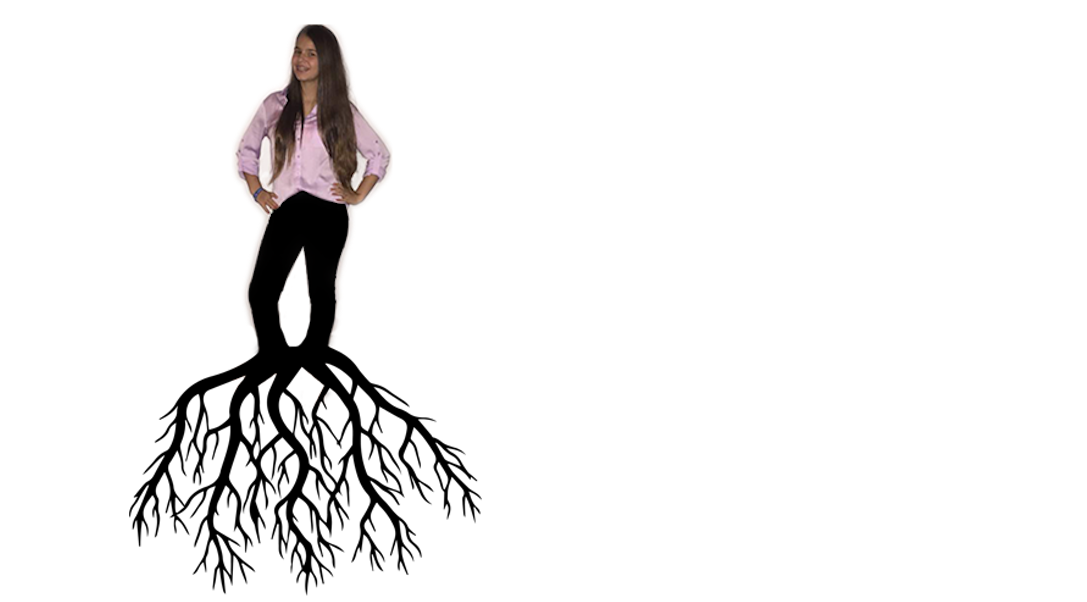
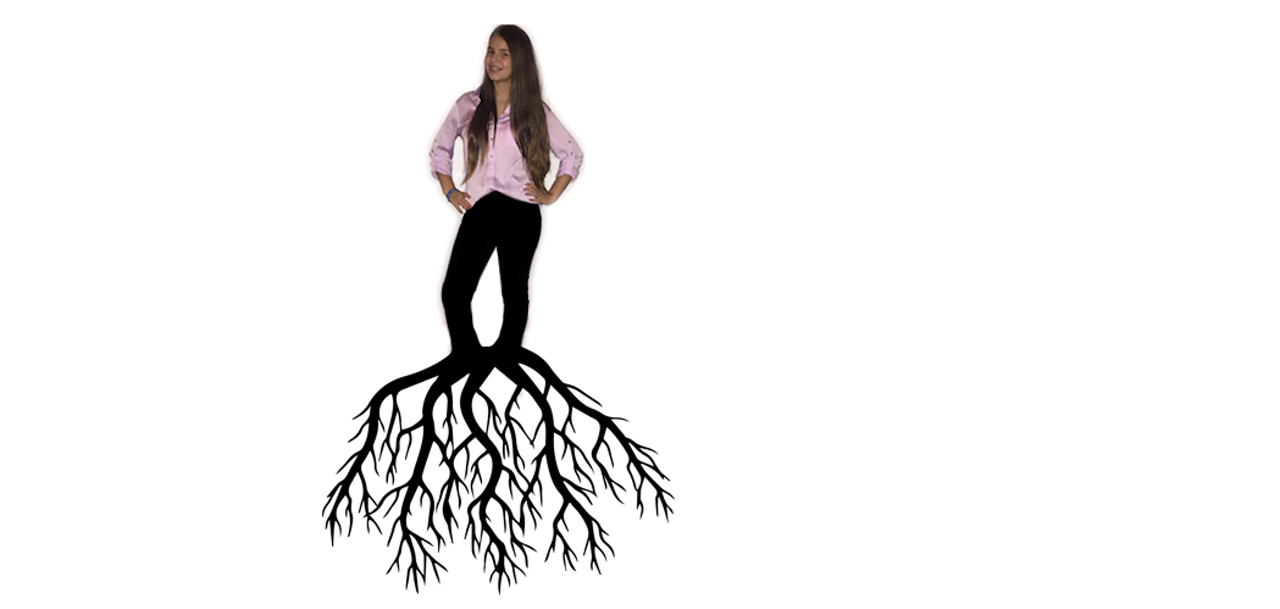
finales

Changed region(s): [[0.1214, 0.0299, 0.5465, 0.9867]]

diff --git a/Inicio/Árbol/arbol.html b/Inicio/Árbol/arbol.html
@@ -5,9 +5,9 @@
 <title>Árbol</title>
 <style type="text/css">
 body {
-	background-image: url(fondoarbol.png);
+	background-image: url(fondoarbol2.png);
 	background-repeat: no-repeat;
-	background-position: right top;
+	background-position: center top;
 }
 	
 	
@@ -24,34 +24,34 @@ body {
     ">
       <tbody>
         <tr>
-          <td width="166" align="center"><a href="https://danalevy.github.io/Escudos/Escudo%20Vivi/Escudo_Vivi.html"><img src="Foto Carnet Vivi.png" width="113" height="143" alt=""/></a></td>
-          <td width="158" align="center"><a href="https://danalevy.github.io/Escudos/Escudo%20mi%20hermano%20Arie/Escudo_mi_hermano_Arie.html"><img src="arie carnet.png" width="111" height="140" alt=""/></a></td>
+          <td width="166" align="center"><a href="https://danalevy.github.io/Escudos/Escudo%20Vivi/Escudo_Vivi.html"><img src="Foto Carnet Vivi.png" width="96" height="121" alt=""/></a></td>
+          <td width="158" align="center"><a href="https://danalevy.github.io/Escudos/Escudo%20mi%20hermano%20Arie/Escudo_mi_hermano_Arie.html"><img src="arie carnet.png" width="105" height="119" alt=""/></a></td>
           <td colspan="3">&nbsp;</td>
-          <td width="164" align="center"><a href="https://danalevy.github.io/Escudos/Escudo%20Analy/escudoanaly.html"><img src="Foto Carnet Analy.png" width="117" height="139" alt=""/></a></td>
-          <td width="169" align="center"><a href="https://danalevy.github.io/Escudos/Escudo%20Eli/escudoeli.html"><img src="eli carnet.png" width="130" height="139" alt=""/></a></td>
+          <td width="164" align="center"><a href="https://danalevy.github.io/Escudos/Escudo%20Analy/escudoanaly.html"><img src="Foto Carnet Analy.png" width="103" height="123" alt=""/></a></td>
+          <td width="169" align="center"><a href="https://danalevy.github.io/Escudos/Escudo%20Eli/escudoeli.html"><img src="eli carnet.png" width="107" height="120" alt=""/></a></td>
         </tr>
         <tr>
           <td>&nbsp;</td>
           <td style="text-align: center">&nbsp;</td>
-          <td colspan="3" style="text-align: center">&nbsp;</td>
+          <td colspan="3" style="text-align: center"><img src="dana carnet.png" width="153" height="153" alt=""/></td>
           <td>&nbsp;</td>
           <td>&nbsp;</td>
         </tr>
         <tr>
           <td>&nbsp;</td>
-          <td align="center"><a href="https://link.com"><img src="Foto Carnet Papa.png" width="113" height="133" alt=""/></a></td>
-          <td colspan="3"><span style="text-align: center"><img src="dana carnet.png" width="152" height="152" alt=""/></span></td>
-          <td align="center"><a href="https://danalevy.github.io/Escudos/Escudo%20Mam%C3%A1/ESCUDO_MAMA_.html"><img src="Foto Carnet Mama.png" width="126" height="127" alt="" align="center"/></a></td>
+          <td align="center"><a href="https://link.com"><img src="Foto Carnet Papa.png" width="98" height="116" alt=""/></a></td>
+          <td colspan="3">&nbsp;</td>
+          <td align="center"><a href="https://danalevy.github.io/Escudos/Escudo%20Mam%C3%A1/ESCUDO_MAMA_.html"><img src="Foto Carnet Mama.png" width="116" height="118" alt="" align="center"/></a></td>
           <td>&nbsp;</td>
         </tr>
         <tr>
-          <td align="center"><img src="Foto Carnet Abuelo Nico.png" width="117" height="138" alt=""/></td>
+          <td align="center"><img src="Foto Carnet Abuelo Nico.png" width="98" height="115" alt=""/></td>
           <td>&nbsp;</td>
-          <td width="147" align="center"><a href="https://danalevy.github.io/Escudos/Escudo%20Abuela%20Sarina/escabuesarina.html"><img src="sarina carnet.png" width="103" height="128" alt=""/></a></td>
+          <td width="147" align="center"><a href="https://danalevy.github.io/Escudos/Escudo%20Abuela%20Sarina/escabuesarina.html"><img src="sarina carnet.png" width="99" height="124" alt=""/></a></td>
           <td width="5000">&nbsp;</td>
-          <td width="162"><img src="Foto Carnet Abuelo Arie.png" width="105" height="137" alt=""/></td>
+          <td width="162"><img src="Foto Carnet Abuelo Arie.png" width="107" height="138" alt=""/></td>
           <td>&nbsp;</td>
-          <td align="center"><img src="Foto Carnet Abuela Elena.png" width="117" height="142" alt=""/></td>
+          <td align="center"><img src="Foto Carnet Abuela Elena.png" width="109" height="132" alt=""/></td>
         </tr>
       </tbody>
     </table></td>
